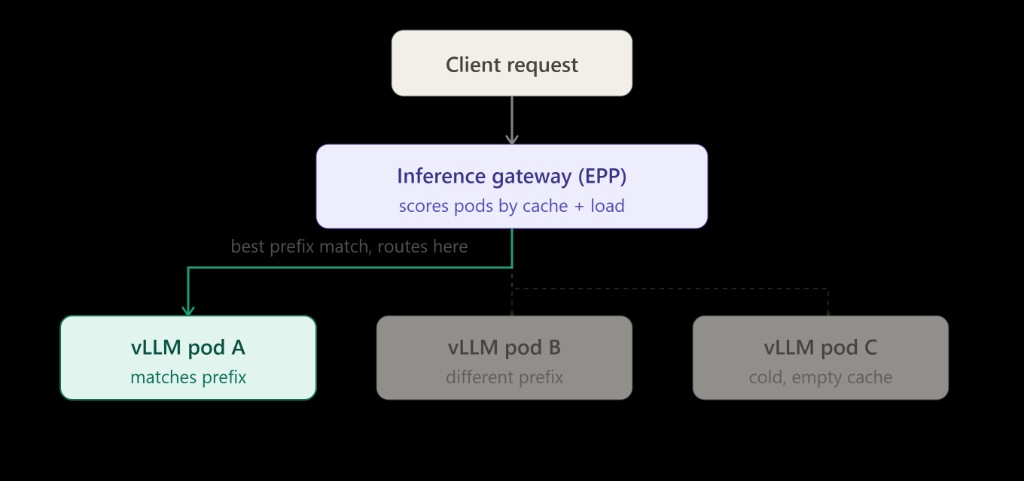
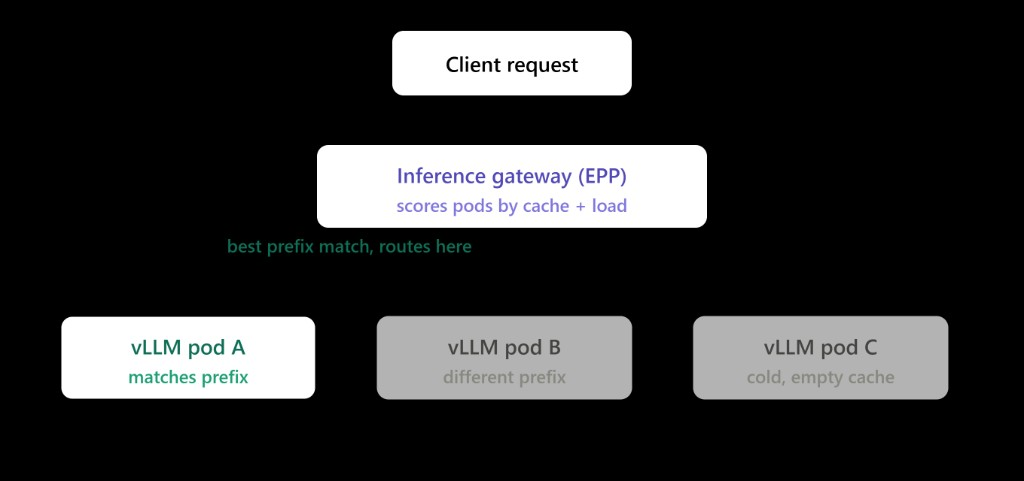
Replace blog diagrams with updated high-contrast versions.

diff --git a/src/app/blog/managed-llm-apis-vs-vllm/page.module.css b/src/app/blog/managed-llm-apis-vs-vllm/page.module.css
@@ -132,7 +132,7 @@
   padding: 0.75rem;
   border: 1px solid var(--border);
   border-radius: var(--radius-md);
-  background: var(--surface);
+  background: #000;
 }
 
 .figureImage {
@@ -140,7 +140,7 @@
   height: auto;
   display: block;
   border-radius: calc(var(--radius-md) - 0.25rem);
-  filter: brightness(1.45) contrast(1.12);
+  background: #000;
 }
 
 .figure figcaption {
